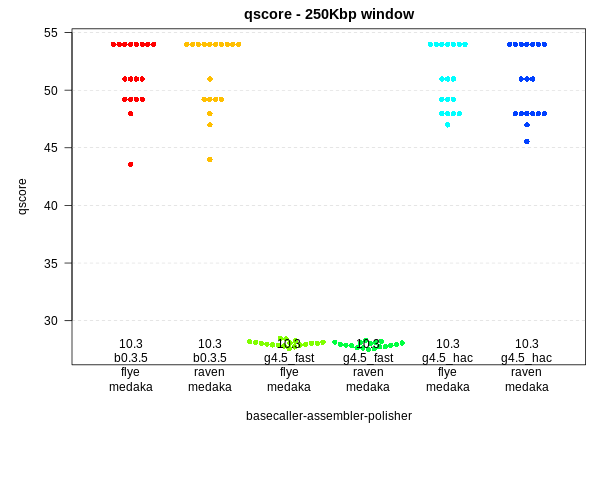
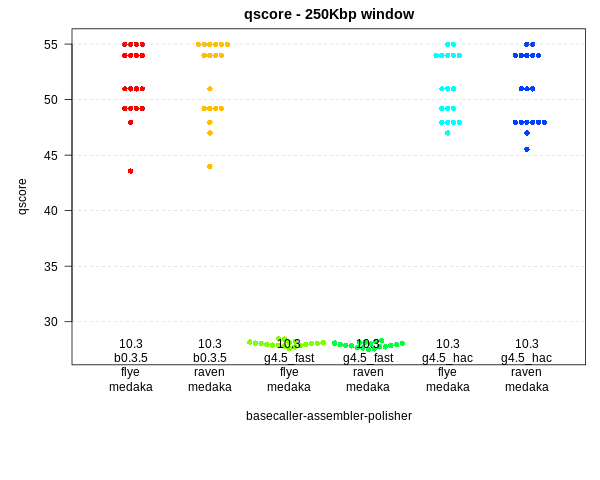
tried to fix q-scores

diff --git a/README.md b/README.md
@@ -2,10 +2,12 @@
 ## Benchmarking basecallers and assemblers using *E. coli* K12
 
 This repo compares *E. coli* K12 assemblies (for now, `raven` and `flye`) 
-using data from different basecallers (`guppy 4.5.2` and `bonito 0.3.5`). One set of `guppy` 
+using data from different flowcells chemistries (9.4 and 10.3) and 
+basecallers (`guppy 4.5.2` and `bonito 0.3.5`). One set of 9.4 `guppy` 
 basecalls have been filtered (*hq*) using `filtlong` to retain the highest quality 
 reads (quality weighting of 30 to retain at least 500Mbp) using 
-`filtlong --mean_q_weight 30 --target_bases 500000000 myreads.fastq > myreads_hq.fastq`.
+`filtlong --mean_q_weight 30 --target_bases 500000000 myreads.fastq > myreads_hq.fastq`. 
+For the 10.3 chemistry, we did not have enough data to filter. 
 Note that `bonito` does not produce quality scores (although there may be 
 ways around this such that read q-scores can be inferred).
 
@@ -16,6 +18,8 @@ and the quality of the assembly is assessed by
 calculating the SNPs (i.e. short indels and subsitutions) per window across the genome. 
 This is plotted as a phred-based q-score 
 (e.g. q50 means 1 error every 100,000 base pairs).
+
+## 9.4 Flowcells
 
 ### No polishing
 First, the results with no polishing at all ("none"). Each point in the plot 
